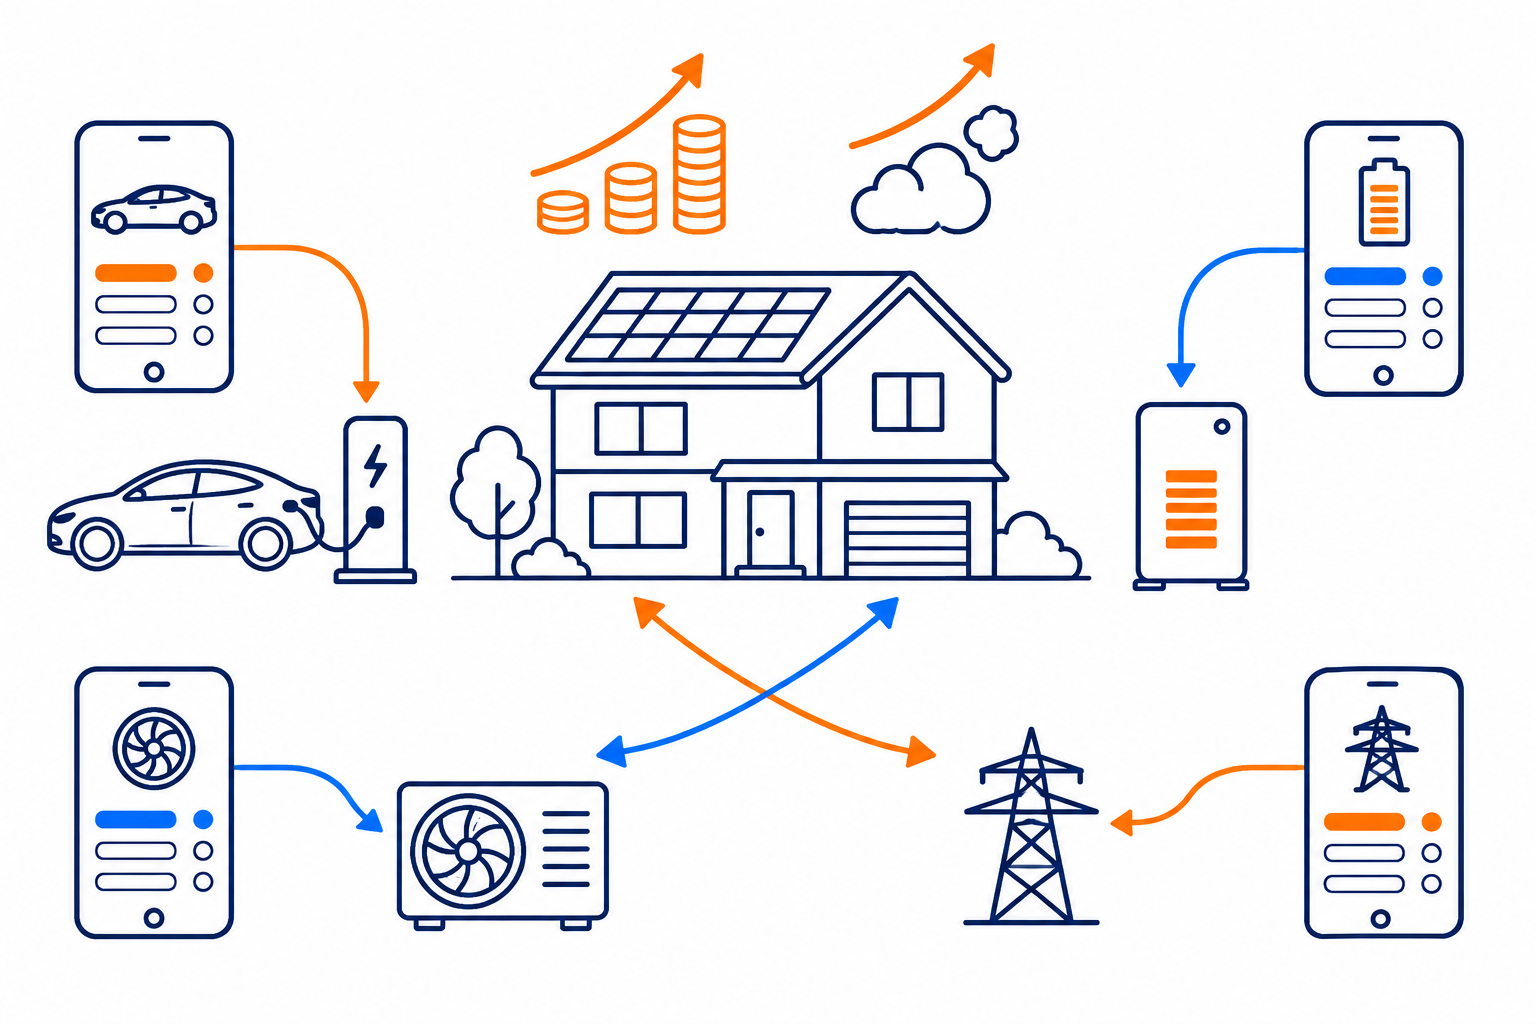
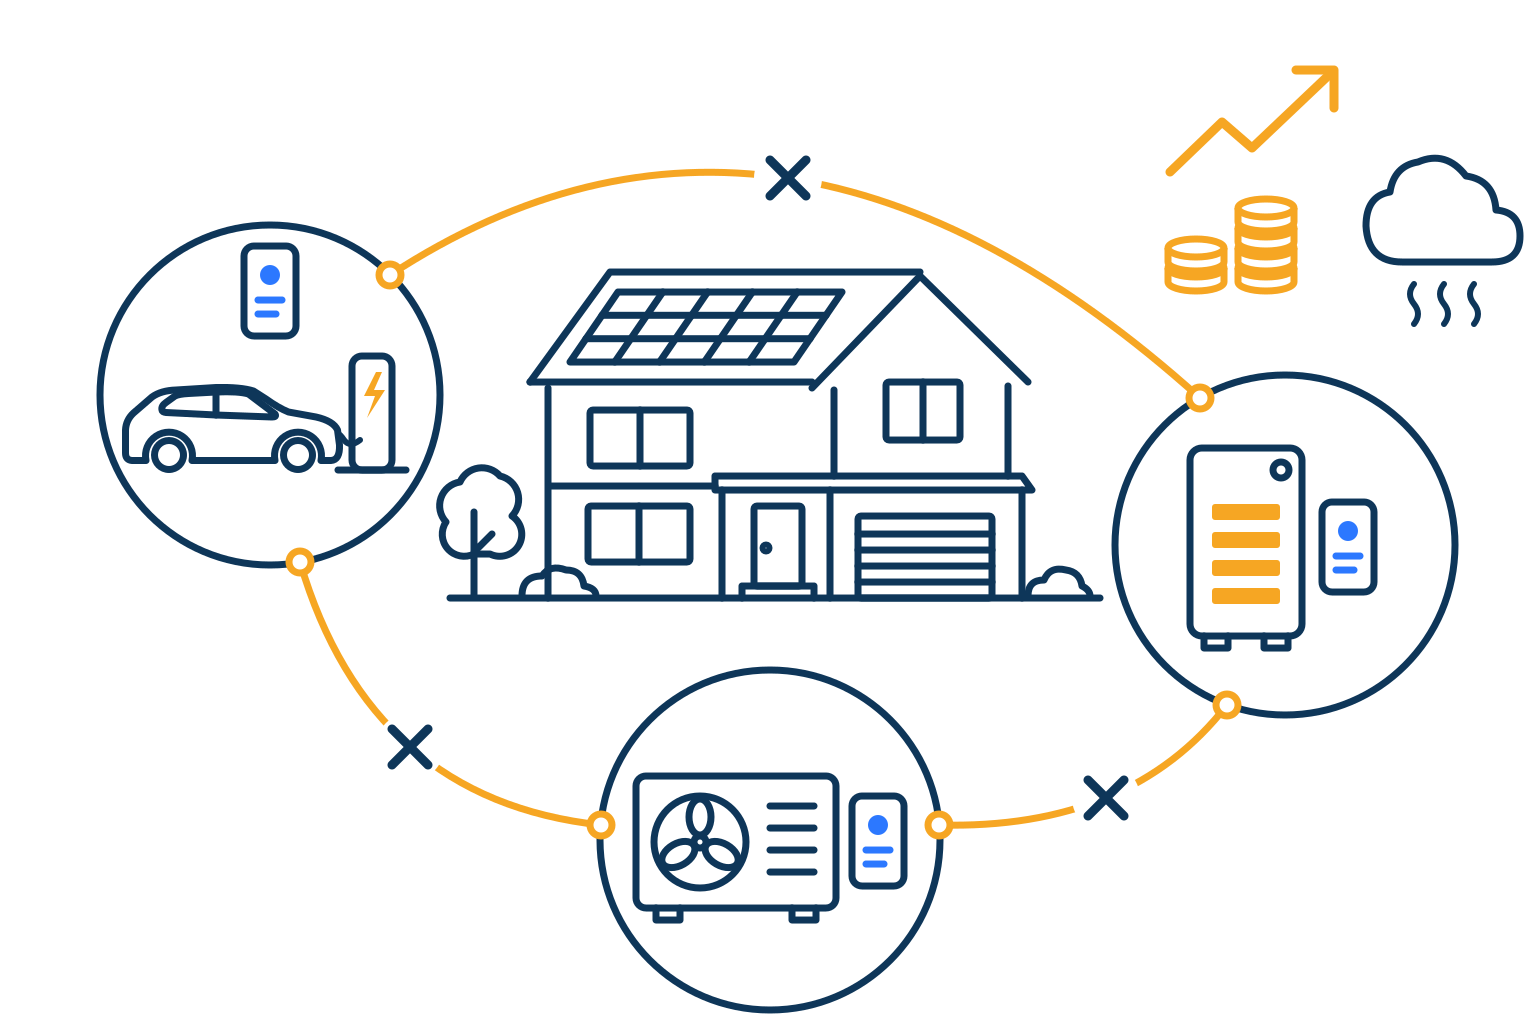
artwork: draw problem illustration as editable SVG

diff --git a/README.md b/README.md
@@ -38,6 +38,15 @@ from its editable source, `device-conflict-og.svg`, with
 `rsvg-convert -w 1200 -h 630 device-conflict-og.svg -o device-conflict-og.png`.
 It contains no logo or text.
 
+`problem-fragmented-home.png` is the "The problem" illustration in the
+investor pitch deck. It is the opposite of `hero-connected-home.png`: the car,
+heat pump and home battery each sit in a separate bubble with their own app,
+and the links between them are broken, beside rising bills and emissions. It is
+exported at 1536 by 1024 from its editable source,
+`problem-fragmented-home.svg`, with
+`rsvg-convert -w 1536 -h 1024 problem-fragmented-home.svg -o problem-fragmented-home.png`.
+It contains no logo or text.
+
 ## Brand and distribution assets
 
 - `wiggle-symbol.svg` and `wiggle-symbol-dark.svg` are the current symbol
